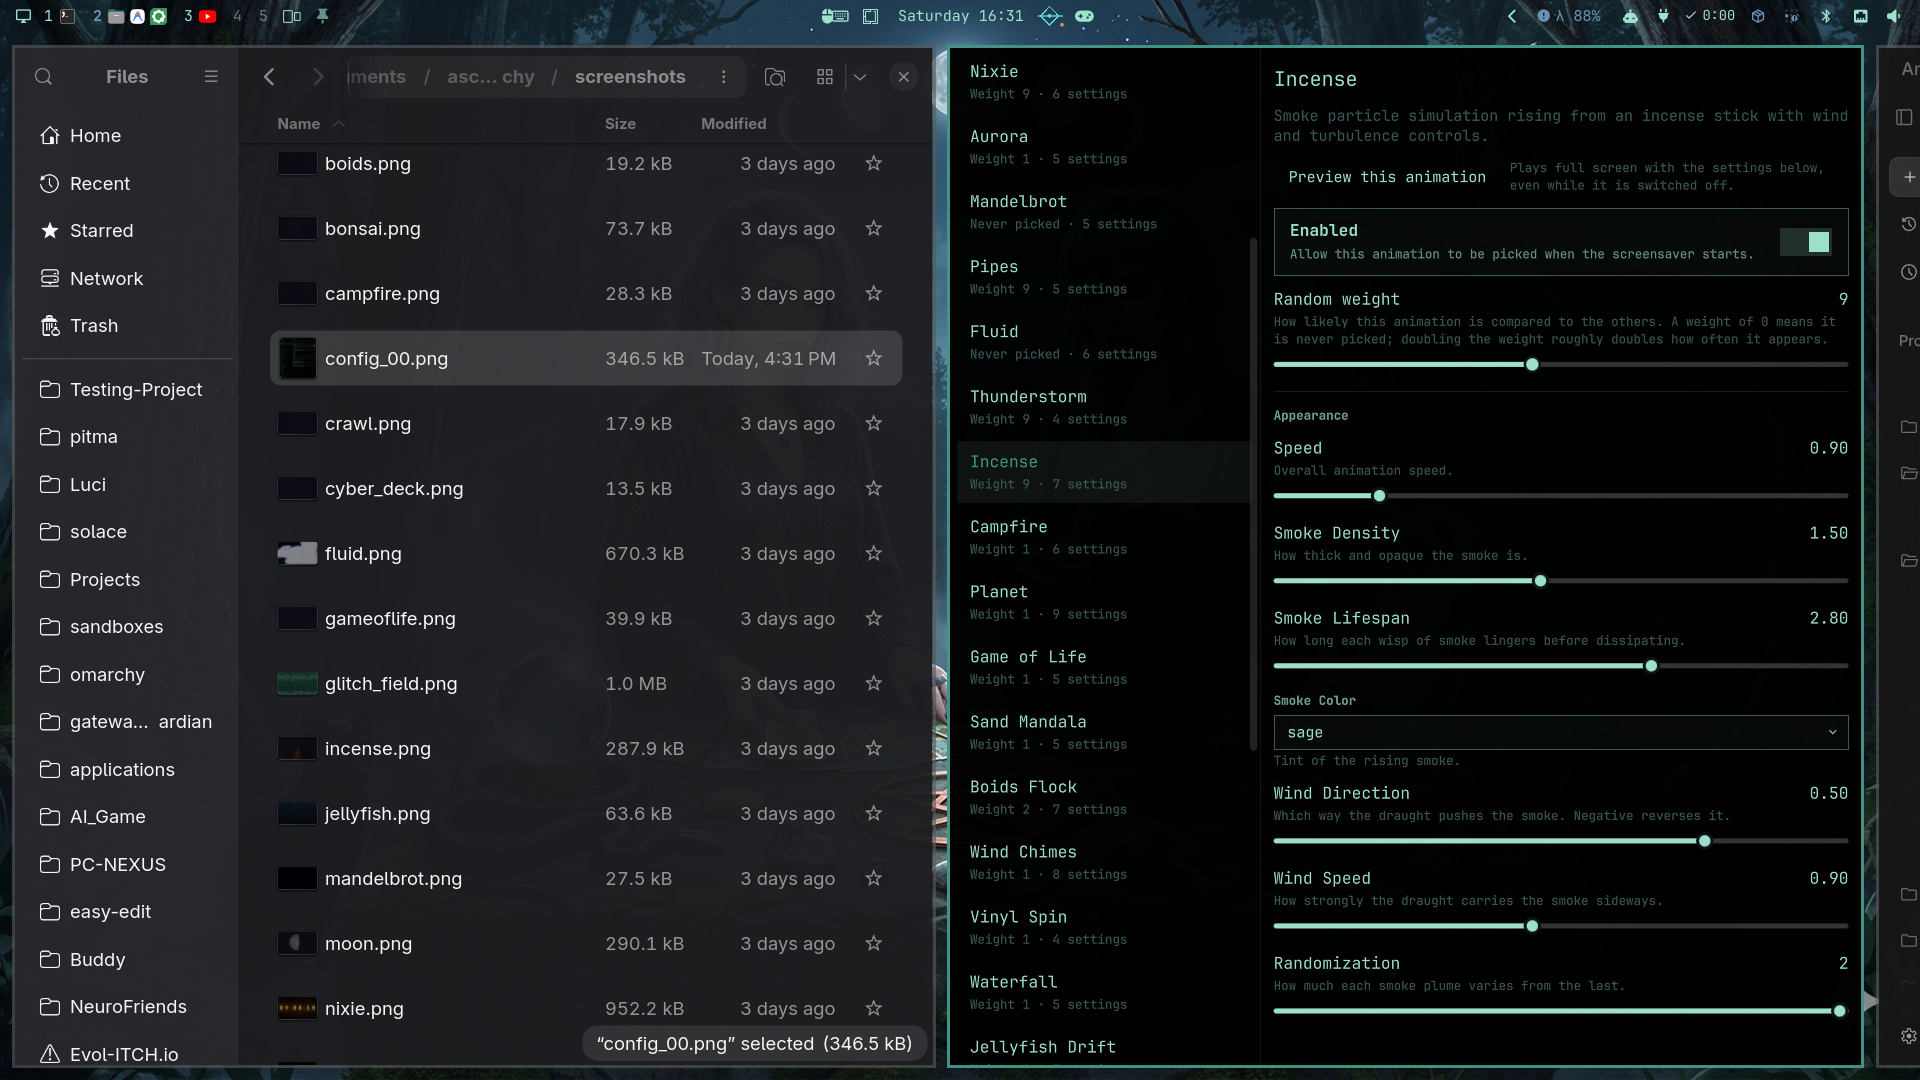
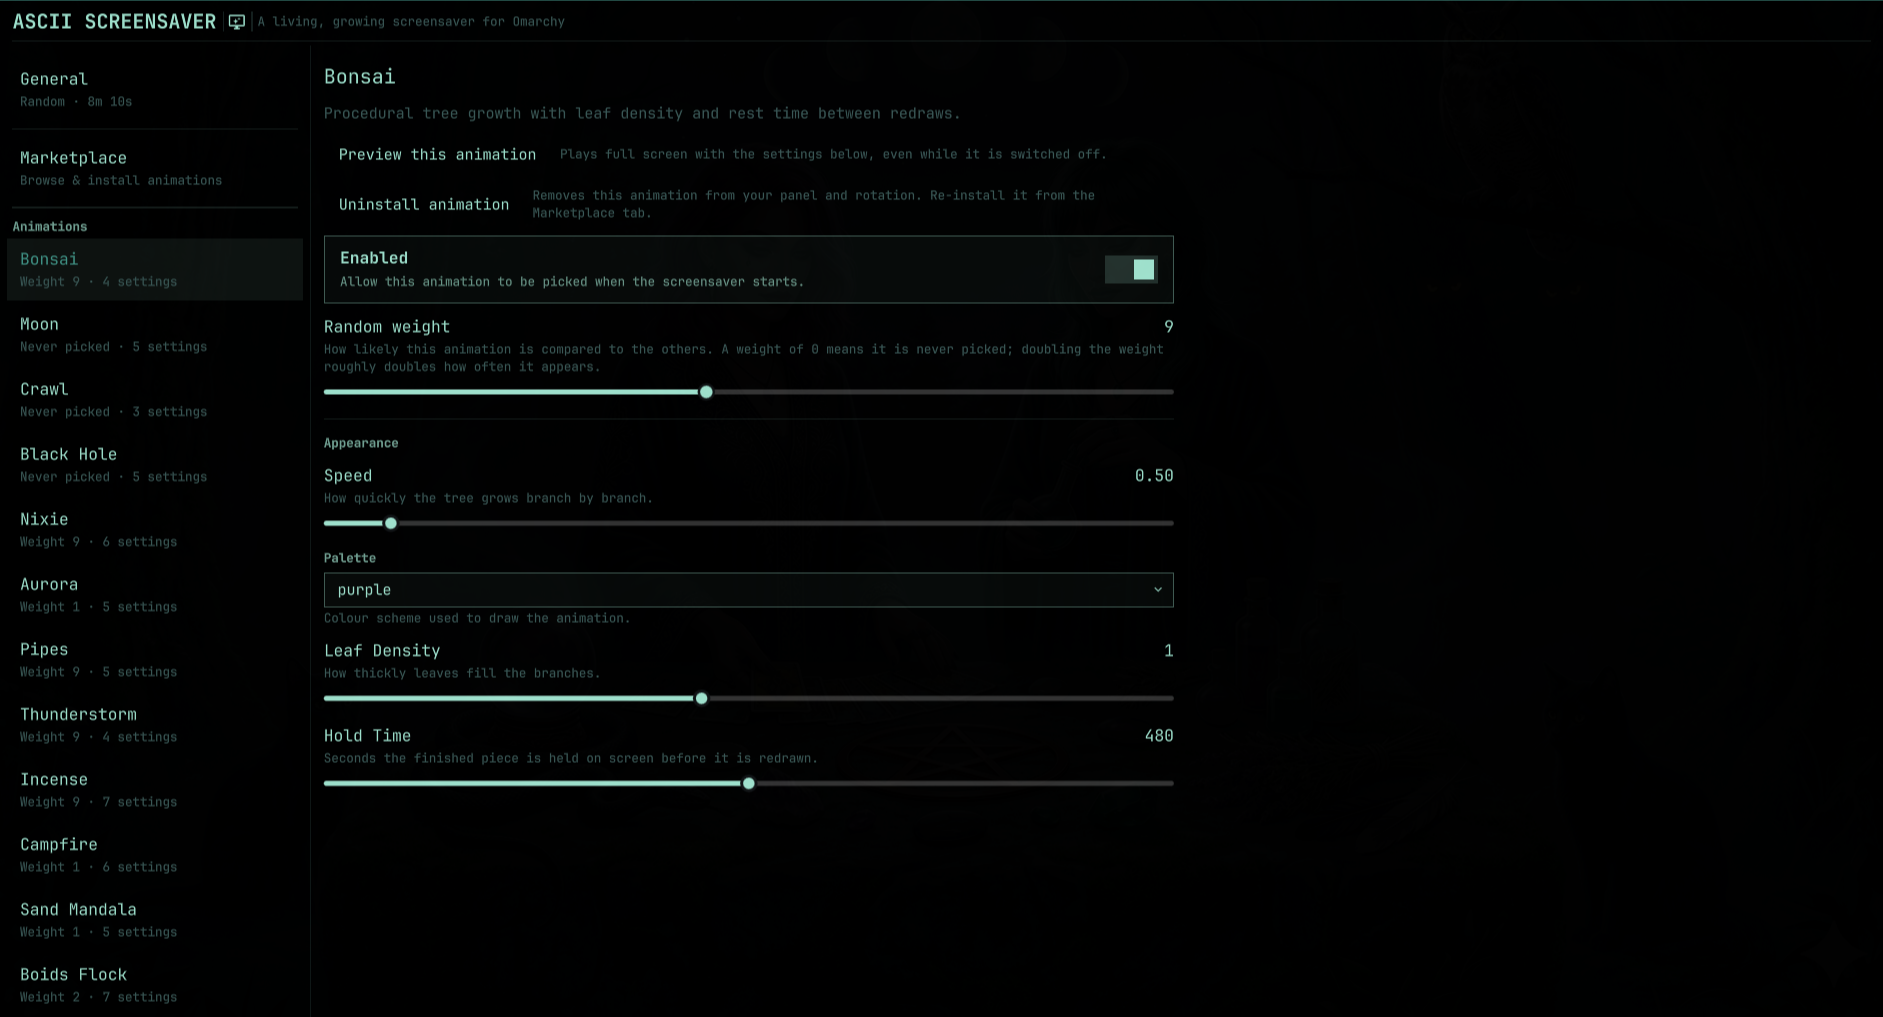
docs: refresh screenshots and restore README gallery (#3)
The README rewrite that emphasized the community Marketplace dropped
the screenshot gallery entirely. Restore it with current captures:

- config_00.png (welcome page) and config_02.png (General settings)
  near the top, giving a first look at the panel.
- marketplace_00.png under "The Marketplace" section.
- config_01.png (per-animation settings) near "Configuring Animations".

config_00.png and config_01.png are updated captures (new branding
header, dev note); config_02.png and marketplace_00.png are new.

diff --git a/README.md b/README.md
@@ -8,17 +8,22 @@ We are launching a brand-new community **Marketplace** for ASCII animations, and
 
 Whether you're a seasoned developer or just want to prompt an AI to build something cool for you, this guide has everything you need to create your own screensaver and help us populate the new Marketplace.
 
+![Welcome page](screenshots/config_00.png)
+![General settings](screenshots/config_02.png)
+
 ---
 
 ## The Marketplace
 
-The easiest way to get new animations is the Marketplace. 
+The easiest way to get new animations is the Marketplace.
 
 1. Open the ASCII Screensaver settings panel in Omarchy.
 2. Click the **Marketplace** tab in the sidebar.
 3. Browse, search, and click **Install** on any animation that catches your eye.
 
 The animation will instantly be downloaded and added to your active rotation.
+
+![Marketplace](screenshots/marketplace_00.png)
 
 ---
 
@@ -153,3 +158,5 @@ omarchy-shell shell summon io.github.evol-luci.ascii-screensaver '{}'
 ```
 
 From here, you can browse installed animations, tweak their weights/parameters, test them via the **Preview this animation** button, and browse the **Marketplace**.
+
+![Animation settings](screenshots/config_01.png)
